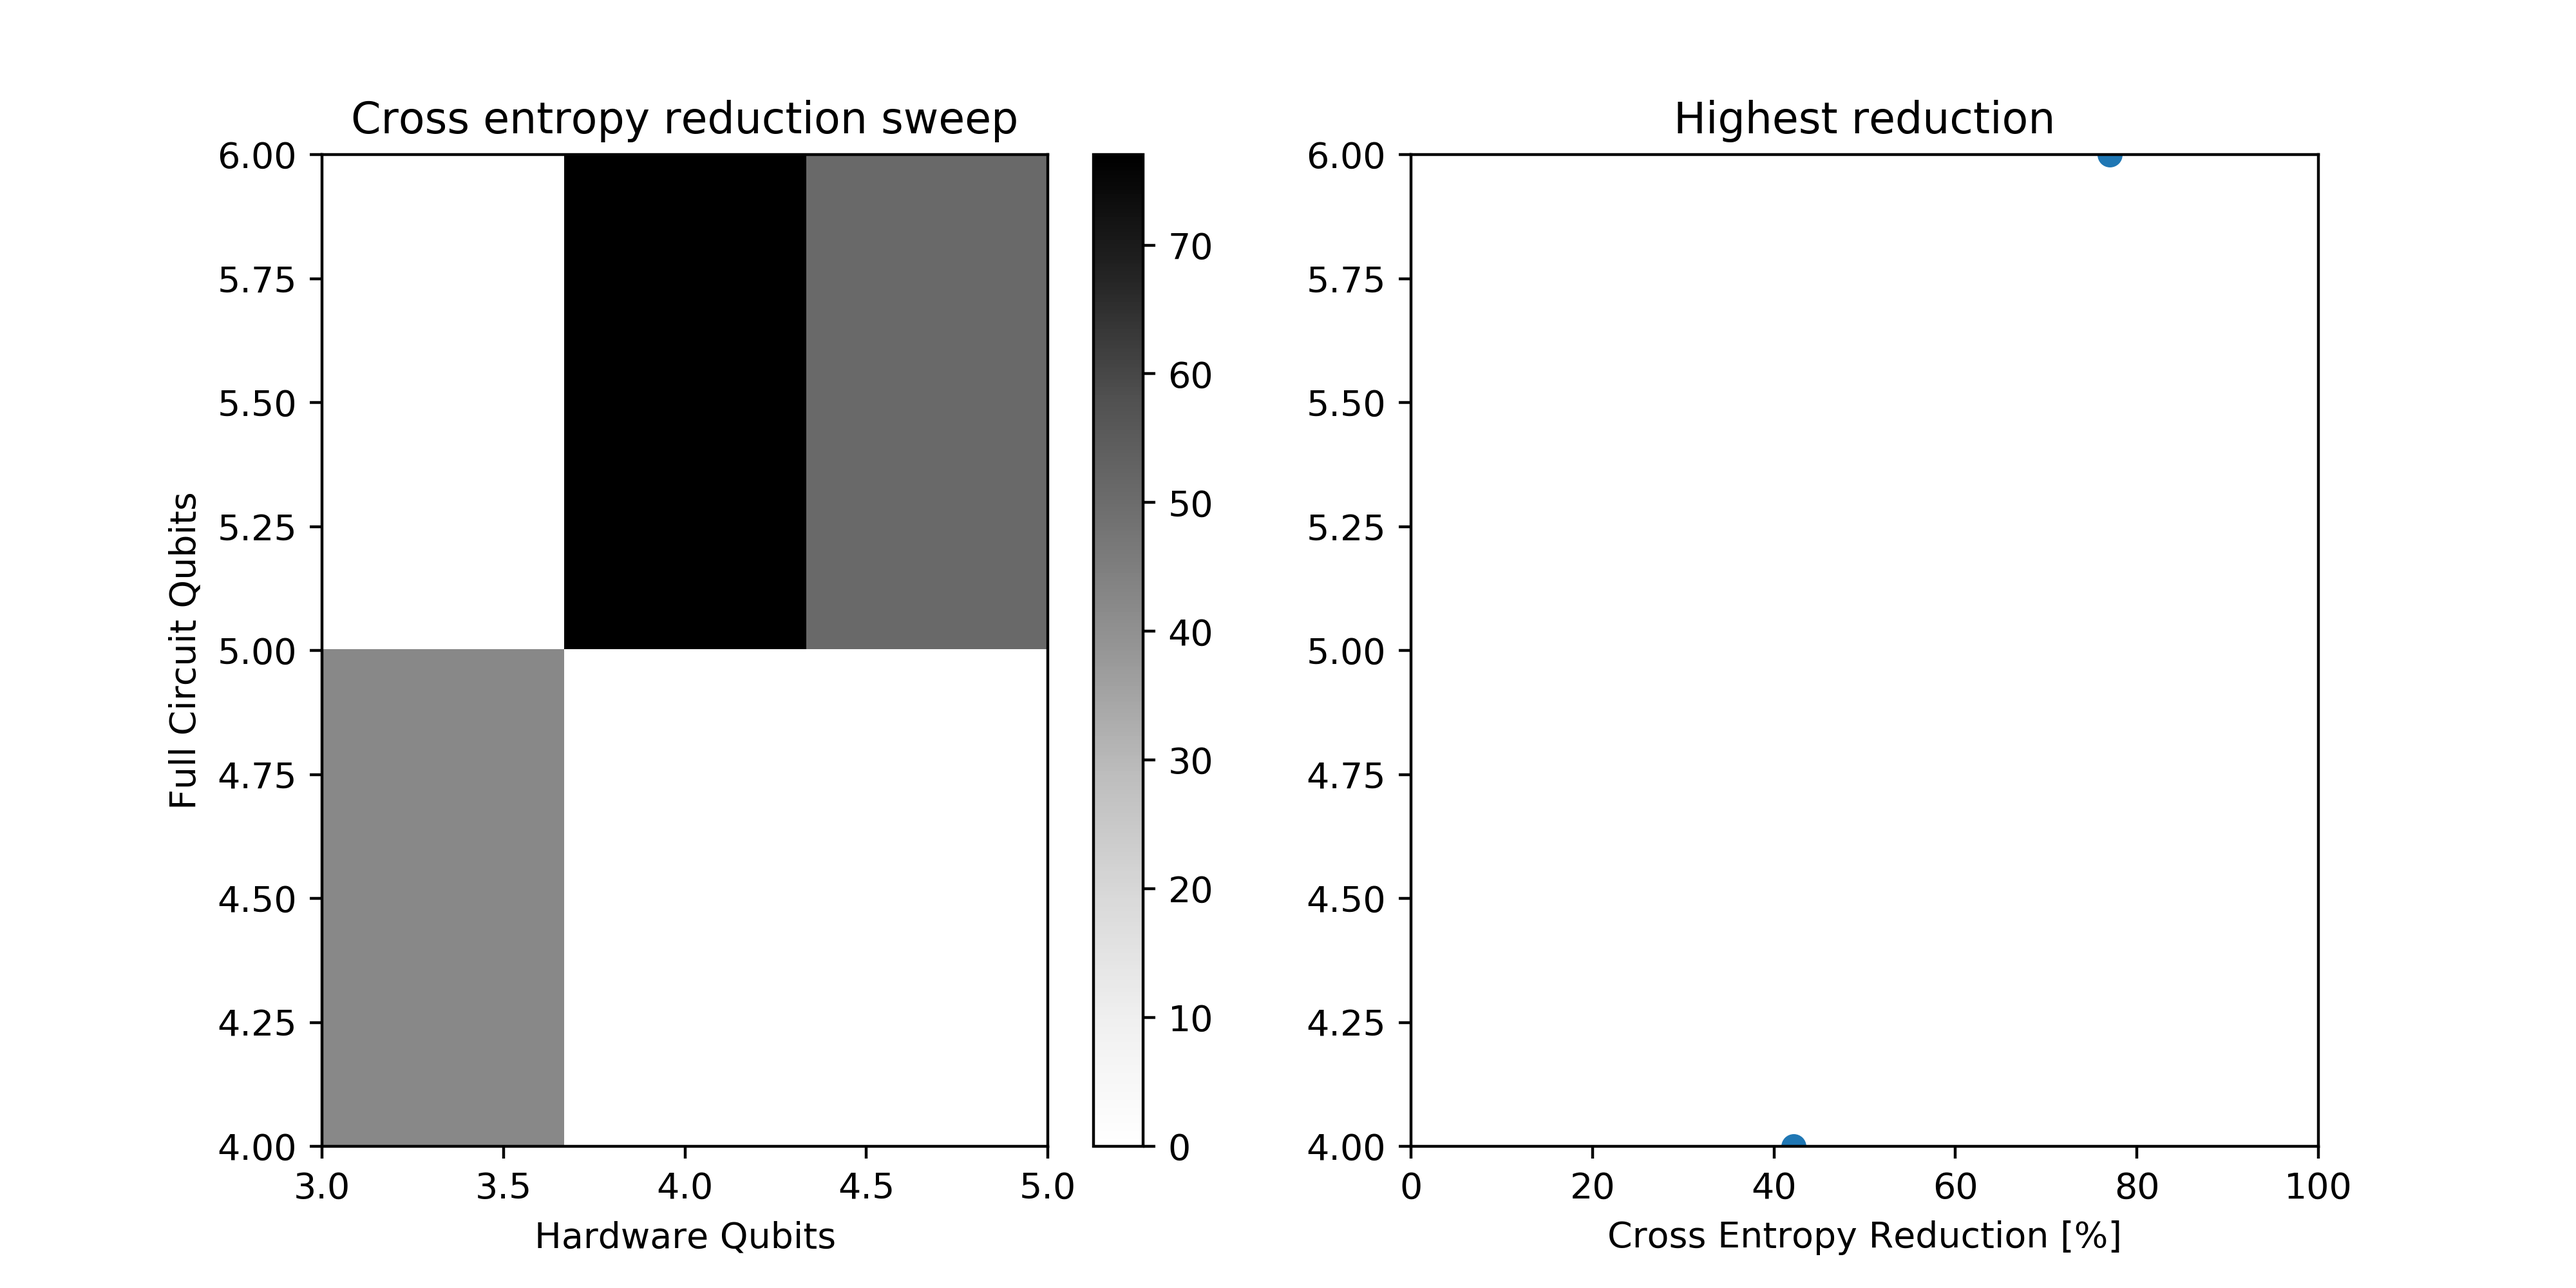
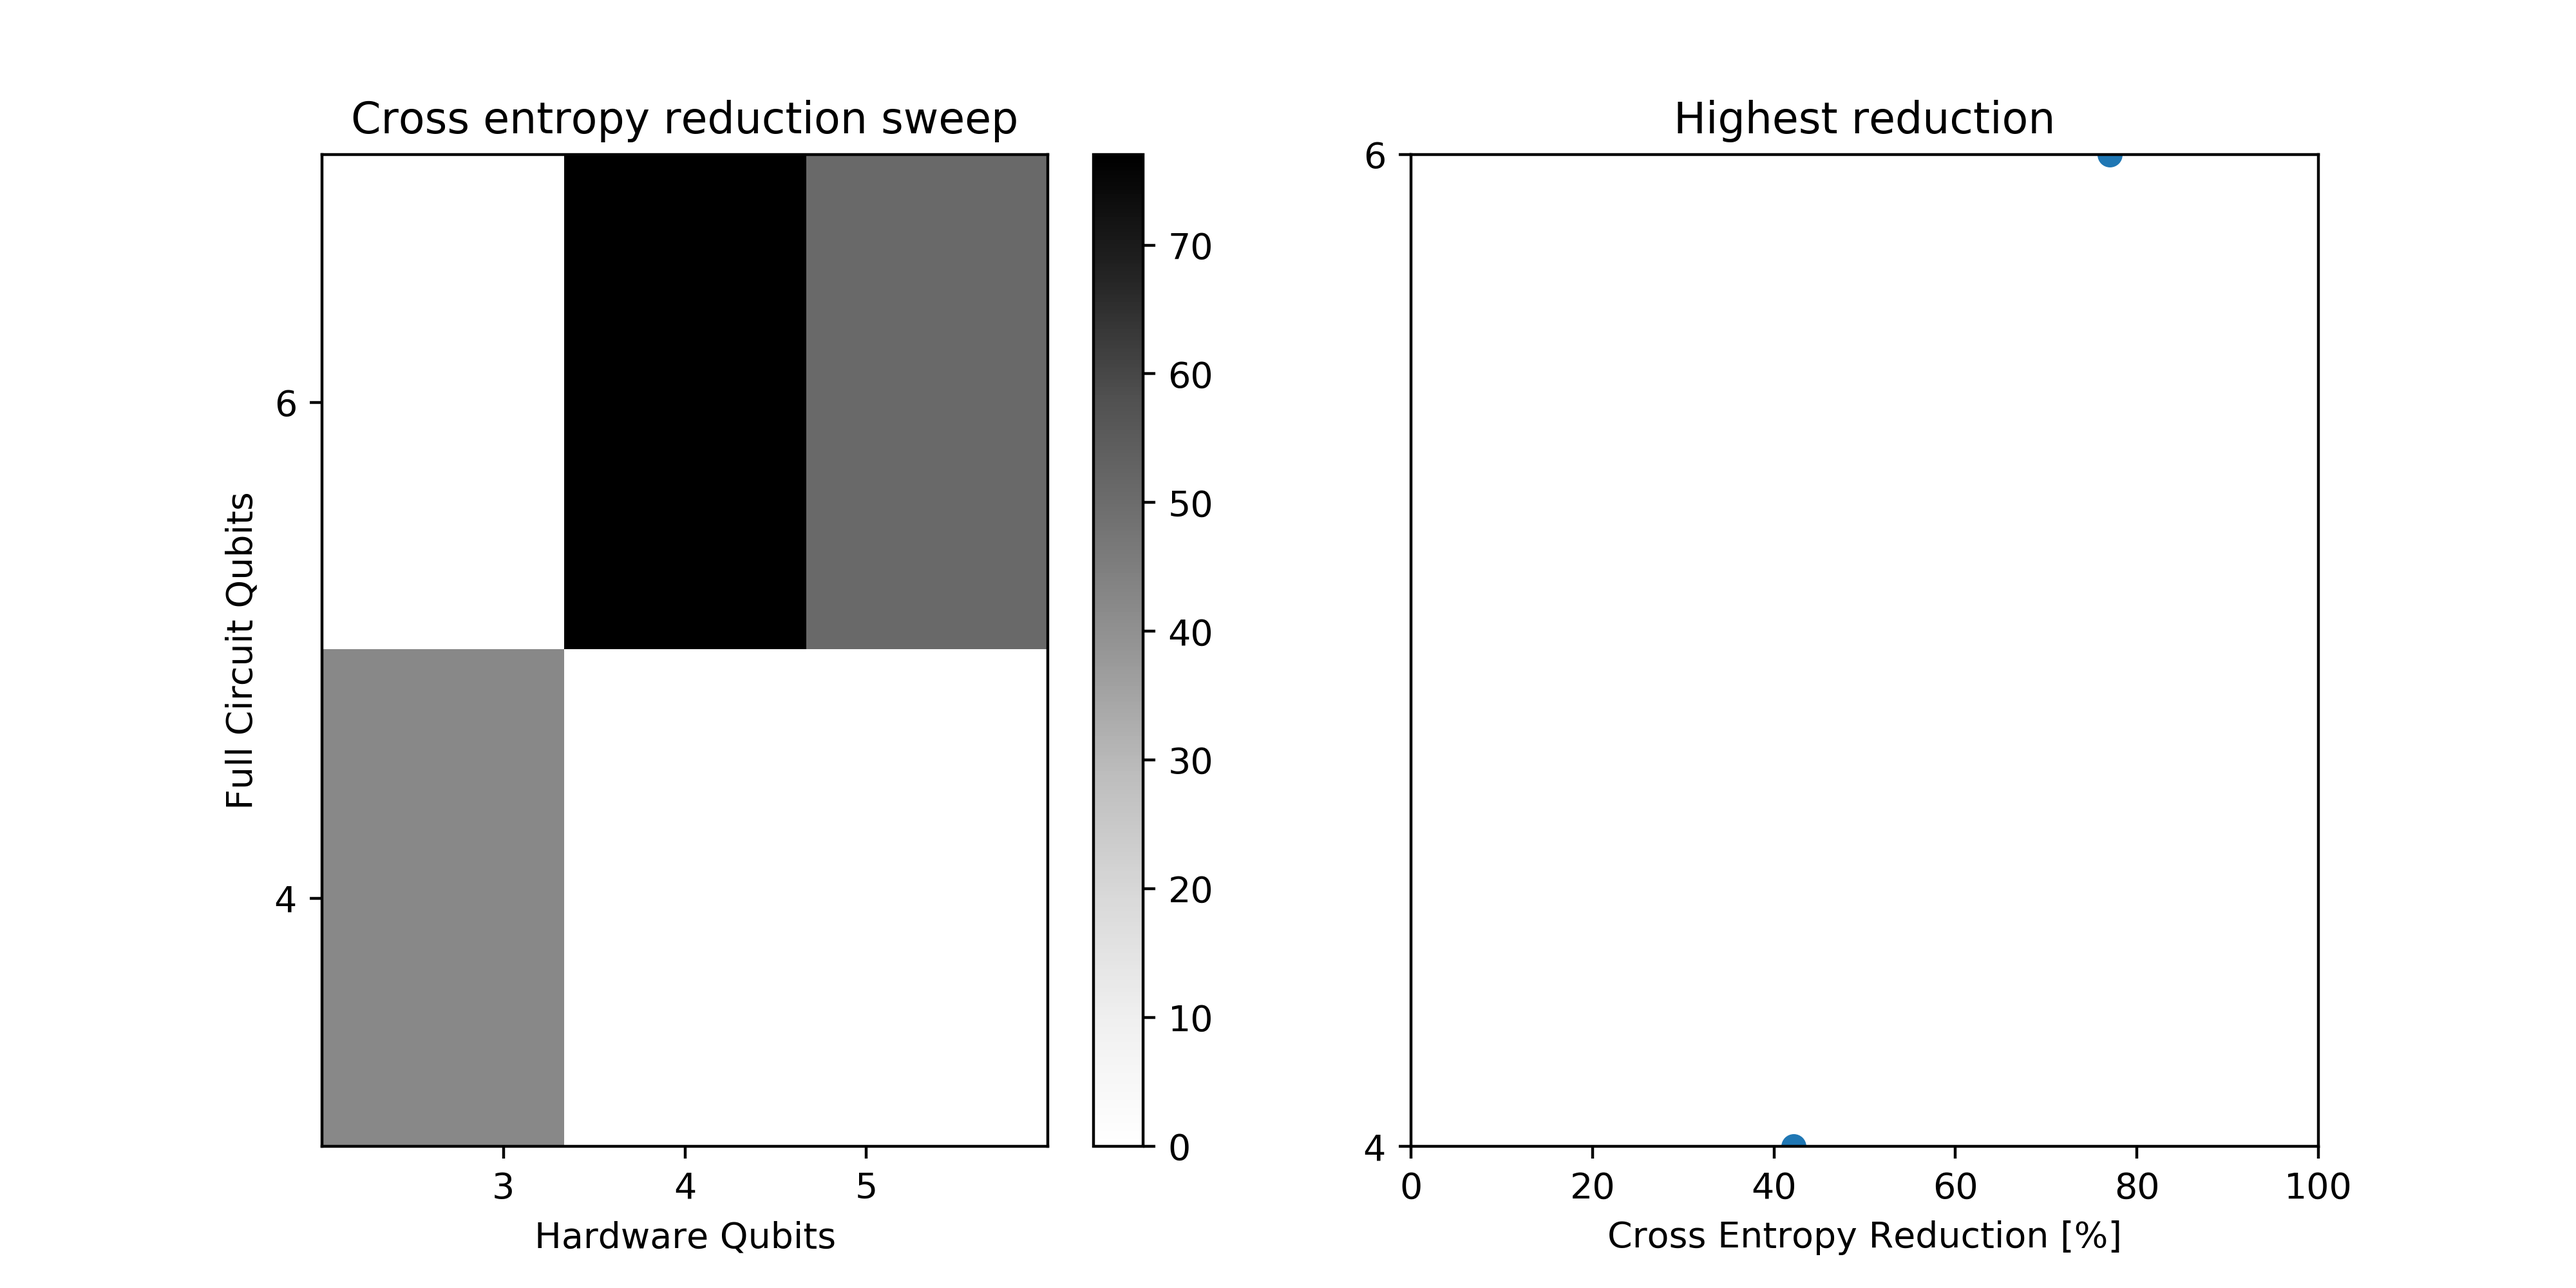
minor update to plotter

diff --git a/plot.py b/plot.py
@@ -99,11 +99,14 @@ if __name__ == '__main__':
         plt.plot([fc for fc in best_cc], [best_cc[fc][0] for fc in best_cc], 'bX')
         plt.xlabel('Number of qubits')
         plt.ylabel('Cross entropy reduction (%)')
+        plt.xticks([x for x in best_cc])
         plt.ylim(0,100)
         plt.subplot(122)
         plt.plot([fc for fc in best_cc], [best_cc[fc][1] for fc in best_cc], 'r*')
         plt.xlabel('Number of qubits')
         plt.ylabel('Reconstruction time (s)')
+        plt.xticks([x for x in best_cc])
+        plt.tight_layout()
         plt.savefig('%s_tradeoff.png'%figname[:-2],dpi=400)
         plt.close()
 
@@ -158,16 +161,19 @@ if __name__ == '__main__':
 
         plt.figure(figsize=(10,5))
         plt.subplot(121)
-        plt.imshow(reduction_map, aspect='auto',extent=[min(hw_qubits_unique), max(hw_qubits_unique), min(fc_qubits_unique), max(fc_qubits_unique)], cmap = cm.Greys)
+        plt.imshow(reduction_map, aspect='auto',extent=[min(hw_qubits_unique)-1, max(hw_qubits_unique)+1, min(fc_qubits_unique)-1, max(fc_qubits_unique)+1], cmap = cm.Greys)
         plt.colorbar()
         plt.title('Cross entropy reduction sweep')
         plt.xlabel('Hardware Qubits')
         plt.ylabel('Full Circuit Qubits')
+        plt.xticks(hw_qubits_unique)
+        plt.yticks(fc_qubits_unique)
         plt.subplot(122)
         plt.plot(np.max(reduction_map, axis=1), fc_qubits_unique, 'o')
         plt.xlim(0,100)
         plt.title('Highest reduction')
         plt.xlabel('Cross Entropy Reduction [%]')
         plt.ylim(min(fc_qubits_unique), max(fc_qubits_unique))
+        plt.yticks(fc_qubits_unique)
         plt.savefig('%s_ce_map.png'%figname[:-2],dpi=400)
         plt.close()
